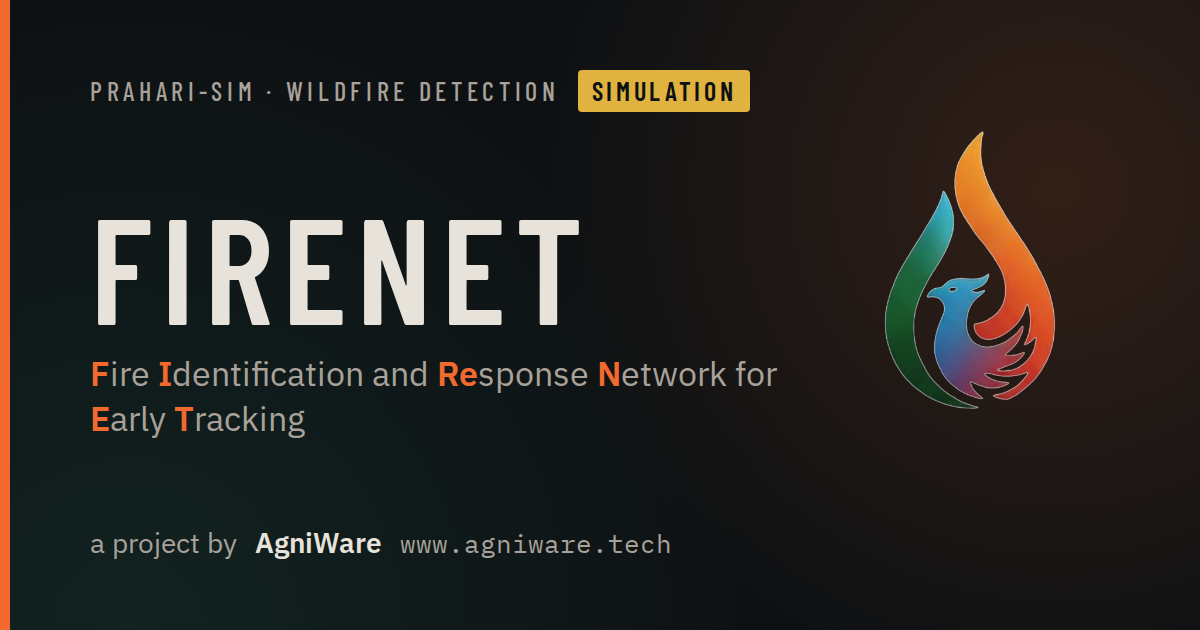
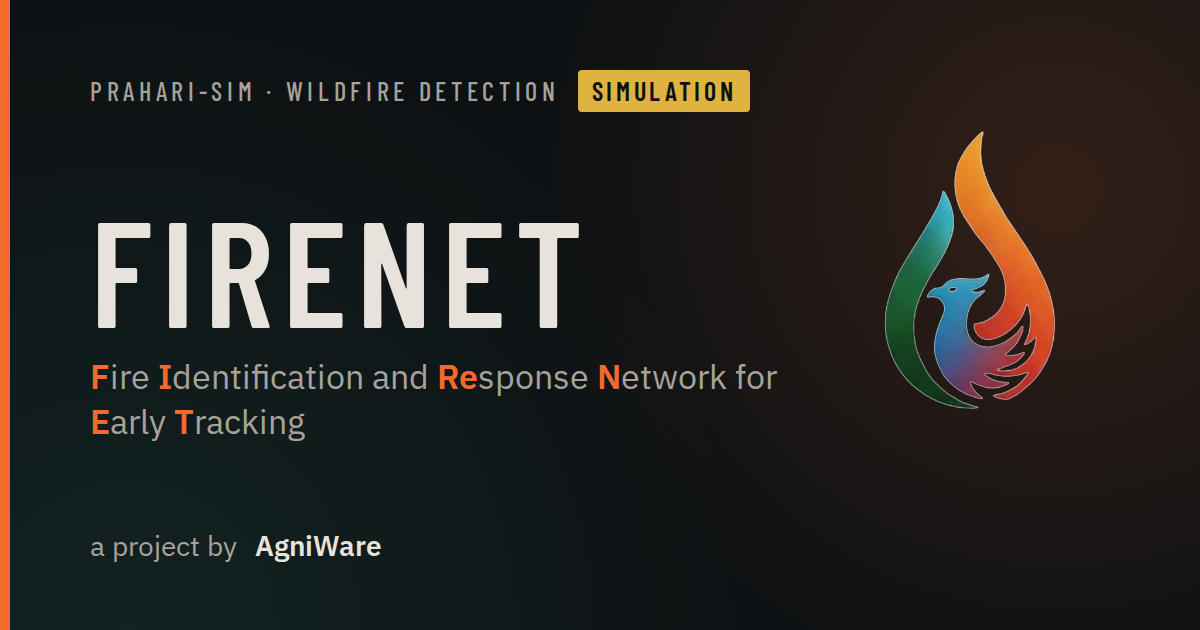
Site: leave out the team website; guided tour buttons; mobile round 2
- AgniWare stays as name and logo; the link and every mention of its
  website are removed (bar, brand.ts, preview image). A test guards it.
- Guided tour: a button in the bar starts the storyboard; Previous, Next
  and close buttons in the caption strip (site/PresenterTouch.tsx), for
  visitors without keys 1-9. PresenterOverlay exports goTo and renders
  the buttons; steps and keys are unchanged.
- mobile.css: tour caption pinned to the top on tablets and phones; race
  timeline scrolls sideways with readable labels; on phones, one card
  per module in Health & model card, one-row layer switches and a
  one-line timeline legend.

Checks: tsc clean, Vitest 64 passed, build clean; headless Chromium at
desktop, tablet and phone: tour steps, sticky caption, cards, no link,
no overflow, 0 console errors, 0 external requests.

Claude-Session: https://claude.ai/code/session_01BdcybAFgb8mJ5jHkwCC4zS

diff --git a/dashboard/src/site/mobile.css b/dashboard/src/site/mobile.css
@@ -22,11 +22,16 @@
   :root .picker select { flex: 1 1 160px; min-width: 0; max-width: 100%; }
   :root .mark-legend { flex-wrap: wrap; }
   :root .foot { overflow-wrap: anywhere; }
+  /* The guided tour's caption and buttons stay at the top of the screen while the page scrolls under them */
+  :root .top { display: contents; }
+  :root .presenter { position: sticky; top: 0; z-index: 11; box-shadow: 0 6px 12px rgba(0, 0, 0, 0.35); }
+  /* Race timeline: keep its labels readable; it scrolls sideways on its own instead of shrinking */
+  :root .race { overflow-x: auto; }
+  :root .race svg { min-width: 760px; }
 }
 
 @media (max-width: 640px) {
   :root .site-bar { padding: 5px 10px; font-size: 12px; }
-  :root .site-bar-url { display: none; }
   :root .strip { gap: 8px; padding: 8px 10px; }
   :root .strip-stats { gap: 6px 16px; }
   :root .strip-stats dd { font-size: 13px; }
@@ -43,4 +48,25 @@
   :root .presenter-line { font-size: 15px; flex-direction: column; gap: 2px; }
   :root .presenter-keys { display: none; }                /* keyboard shortcuts mean nothing on a touch screen */
   :root .foot { padding: 6px 10px; font-size: 11px; }
+  :root .mark-legend { flex-wrap: nowrap; overflow-x: auto; white-space: nowrap; }   /* one line in the pinned controls */
+  :root .presenter-touch { flex: 1 1 100%; }
+  :root .presenter-touch button { flex: 1; padding: 8px 6px; }
+  :root .presenter-touch button:last-child { flex: none; padding: 8px 14px; }
+  /* Map layer switches: one row that scrolls sideways, instead of four rows above the map */
+  :root .layer-toggle { flex-wrap: nowrap; overflow-x: auto; padding-bottom: 4px; scrollbar-width: thin; }
+  :root .layer { flex: none; white-space: nowrap; }
+  /* Health & model card: one card per module instead of a six-column table. The column names come from
+     position (Module, Config, Now, Model, Tag, Errors), so ModuleHealth.tsx itself is unchanged. */
+  :root .health thead { display: none; }
+  :root .health table, :root .health tbody { display: block; }
+  :root .health tr { display: grid; grid-template-columns: 1fr auto auto; gap: 4px 12px; align-items: center;
+    padding: 10px 0; border-bottom: 1px solid var(--line); }
+  :root .health td { display: block; padding: 0; border: 0; }
+  :root .health td:nth-child(1) { font-weight: 600; }
+  :root .health td:nth-child(4) { grid-column: 1 / -1; }
+  :root .health td:nth-child(2)::before, :root .health td:nth-child(5)::before, :root .health td:nth-child(6)::before {
+    color: var(--text-2); font: 11px var(--font-ui); text-transform: uppercase; letter-spacing: 0.06em; margin-right: 6px; }
+  :root .health td:nth-child(2)::before { content: "config"; }
+  :root .health td:nth-child(5)::before { content: "tag"; }
+  :root .health td:nth-child(6)::before { content: "errors"; }
 }

diff --git a/dashboard/src/site/site.css b/dashboard/src/site/site.css
@@ -7,12 +7,18 @@
 .site-bar-name { display: flex; align-items: baseline; gap: 10px; flex-wrap: wrap; color: var(--text-2); }
 .site-bar-firenet { font: 600 15px/1 var(--font-head); letter-spacing: 0.12em; color: var(--ember); }
 .site-bar-expansion b { color: var(--text); font-weight: 600; }
-.site-bar-team { display: inline-flex; align-items: center; gap: 7px; color: var(--text); text-decoration: none;
-  border-radius: 3px; padding: 2px 4px; }
-.site-bar-team:hover b, .site-bar-team:focus-visible b { text-decoration: underline; }
-.site-bar-team:focus-visible { outline: 1px solid var(--text-2); }
+.site-bar-team { display: inline-flex; align-items: center; gap: 7px; color: var(--text); padding: 2px 4px; }
 .site-bar-team img { display: block; }
-.site-bar-url { color: var(--text-2); font-family: var(--font-mono); font-size: 12px; }
 
 .site-brand { display: inline-flex; flex-direction: column; gap: 3px; }
 .site-brand-sub { font: 500 12px/1 var(--font-head); letter-spacing: 0.14em; color: var(--text-2); }
+
+/* Guided tour: the start button in the bar, and previous / next / close in the presenter caption strip */
+.site-tour { background: var(--panel); border: 1px solid var(--ember); border-radius: 3px; padding: 3px 10px;
+  cursor: pointer; font-size: 13px; margin-left: auto; }
+.site-tour:hover, .site-tour:focus-visible { background: var(--line); }
+.presenter-touch { display: flex; gap: 6px; flex: none; }
+.presenter-touch button { background: var(--bg); border: 1px solid var(--line); border-radius: 3px; padding: 4px 10px;
+  cursor: pointer; }
+.presenter-touch .presenter-next { border-color: var(--ember); }
+.presenter-touch button:disabled { opacity: 0.4; cursor: default; }

diff --git a/dashboard/src/site/PresenterTouch.tsx b/dashboard/src/site/PresenterTouch.tsx
@@ -1,0 +1,30 @@
+import type { Step, Storyboard } from "../presenter";
+
+/** The storyboard steps in the order keys 1–9 play them. */
+export function orderedSteps(board: Storyboard): Step[] {
+  return board.steps.slice().sort((a, b) => a.key - b.key);
+}
+
+/** The step before (-1) or after (+1) the current one, or null at either end. */
+export function neighbourStep(board: Storyboard, current: Step, dir: -1 | 1): Step | null {
+  const steps = orderedSteps(board);
+  const i = steps.findIndex((s) => s.key === current.key);
+  return i < 0 ? null : steps[i + dir] ?? null;
+}
+
+interface Props { board: Storyboard | null; step: Step; go: (s: Step) => void; hide: () => void }
+
+/** Buttons for the presenter caption strip (public site): previous, next and close, for visitors on a phone or tablet
+ *  who have no keys 1–9. Rendered by PresenterOverlay; the steps themselves are unchanged. */
+export function PresenterTouch({ board, step, go, hide }: Props) {
+  if (!board) return null;
+  const prev = neighbourStep(board, step, -1);
+  const next = neighbourStep(board, step, 1);
+  return (
+    <nav className="presenter-touch" aria-label="Guided tour steps" data-testid="presenter-touch">
+      <button onClick={() => prev && go(prev)} disabled={!prev}>◀ Previous</button>
+      <button onClick={() => next && go(next)} disabled={!next} className="presenter-next">Next ▶</button>
+      <button onClick={hide} aria-label="End the guided tour">✕</button>
+    </nav>
+  );
+}

diff --git a/dashboard/src/components/PresenterOverlay.tsx b/dashboard/src/components/PresenterOverlay.tsx
@@ -3,6 +3,7 @@ import { create } from "zustand";
 import { variantName } from "../edge";
 import { useMapView } from "../mapView";
 import { keyAction, type Step, type Storyboard, stepMinute, storyboardProblems } from "../presenter";
+import { PresenterTouch } from "../site/PresenterTouch";
 import { RecordingSource } from "../sources/RecordingSource";
 import { beginLoad, isLatestLoad, useSim } from "../store";
 
@@ -28,7 +29,7 @@ function load(name: string): Promise<RecordingSource> {
 }
 
 /** SPEC §6.4 — apply a storyboard step: recording, bookmark, speed, layers, tab, then play or hold. */
-async function goTo(step: Step) {
+export async function goTo(step: Step) {   // exported for the site's touch buttons
   const sim = useSim.getState();
   const token = beginLoad();                     // keys pressed in quick succession: only the last step is applied
   usePresenter.setState({ step, note: null });
@@ -135,6 +136,7 @@ export function PresenterOverlay() {
       ) : null}
       {note ? <p className="presenter-note small" data-testid="presenter-note">{note}</p> : null}
       <p className="presenter-keys small muted">1–9 steps · Space play · S SCMR · R RAQ · F full screen · Esc hide · SIMULATION</p>
+      {step ? <PresenterTouch board={board} step={step} go={(s) => void goTo(s)} hide={() => usePresenter.setState({ step: null, note: null })} /> /* site */ : null}
     </div>
   );
 }

diff --git a/dashboard/src/site/SiteBar.tsx b/dashboard/src/site/SiteBar.tsx
@@ -1,4 +1,6 @@
+import { goTo, usePresenter } from "../components/PresenterOverlay";
 import { FIRENET_WORDS, TEAM, TEAM_LOGO } from "./brand";
+import { orderedSteps } from "./PresenterTouch";
 import "./site.css";
 import "./mobile.css";
 
@@ -17,14 +19,25 @@ export function SiteBar() {
           ))}
         </span>
       </p>
-      <a className="site-bar-team" href={TEAM.url} target="_blank" rel="noopener noreferrer"
-         title={`${TEAM.name}: ${TEAM.label} (opens in a new tab)`}>
+      <TourButton />
+      <p className="site-bar-team">
         <span className="muted">a project by</span>
         <img src={TEAM_LOGO} alt="" width={22} height={22} />
         <b>{TEAM.name}</b>
-        <span className="site-bar-url">{TEAM.label} ↗</span>
-      </a>
+      </p>
     </div>
+  );
+}
+
+/** Starts the storyboard (presenter mode) at step 1, so visitors without keys 1–9 can follow it; hidden during it. */
+function TourButton() {
+  const board = usePresenter((s) => s.board);
+  const step = usePresenter((s) => s.step);
+  if (!board || step) return null;
+  return (
+    <button className="site-tour" data-testid="site-tour" onClick={() => void goTo(orderedSteps(board)[0])}>
+      ▶ Guided tour <span className="muted">· {board.steps.length} steps</span>
+    </button>
   );
 }
 

diff --git a/dashboard/src/site/presenterTouch.test.ts b/dashboard/src/site/presenterTouch.test.ts
@@ -1,0 +1,22 @@
+import { readFileSync } from "node:fs";
+import { dirname, join } from "node:path";
+import { fileURLToPath } from "node:url";
+import { describe, expect, it } from "vitest";
+import type { Storyboard } from "../presenter";
+import { neighbourStep, orderedSteps } from "./PresenterTouch";
+
+const here = dirname(fileURLToPath(import.meta.url));
+const board = JSON.parse(readFileSync(join(here, "..", "..", "public", "storyboard.json"), "utf8")) as Storyboard;
+
+describe("guided-tour buttons (public site)", () => {
+  it("walks the storyboard in key order, stopping at both ends", () => {
+    const steps = orderedSteps(board);
+    expect(steps.map((s) => s.key)).toEqual([...steps.map((s) => s.key)].sort((a, b) => a - b));
+    expect(neighbourStep(board, steps[0], -1)).toBeNull();
+    expect(neighbourStep(board, steps[steps.length - 1], 1)).toBeNull();
+    for (let i = 0; i + 1 < steps.length; i++) {
+      expect(neighbourStep(board, steps[i], 1)?.key).toBe(steps[i + 1].key);
+      expect(neighbourStep(board, steps[i + 1], -1)?.key).toBe(steps[i].key);
+    }
+  });
+});

diff --git a/dashboard/src/site/brand.ts b/dashboard/src/site/brand.ts
@@ -1,4 +1,4 @@
-// Names and links shown by the public site (site branches only; see docs/site/README.md). Kept in one place so the
+// Names shown by the public site (site branches only; see docs/site/README.md). Kept in one place so the
 // page, the tests and the link-preview tags in index.html say the same thing.
 
 /** The system's name and what it stands for: FI-RE-N-E-T. `key` marks the letters that make up the acronym. */
@@ -15,7 +15,8 @@ export const FIRENET_WORDS: { word: string; key: string }[] = [
 
 export const FIRENET_EXPANSION = FIRENET_WORDS.map((w) => w.word).join(" ");
 
-export const TEAM = { name: "AgniWare", url: "https://www.agniware.tech", label: "www.agniware.tech" };
+/** The team's name only. Its website is left out until the developer adds it back (docs/site/LOG.md, S4). */
+export const TEAM = { name: "AgniWare" };
 
 /** The team logo, bundled with the site (no request to another host). */
 export const TEAM_LOGO = `${import.meta.env.BASE_URL}brand/agniware-96.png`;

diff --git a/dashboard/src/site/brand.test.ts b/dashboard/src/site/brand.test.ts
@@ -14,8 +14,12 @@ describe("public-site branding", () => {
     expect(FIRENET_EXPANSION).toBe("Fire Identification and Response Network for Early Tracking");
   });
 
-  it("links the team site over https", () => {
-    expect(TEAM.url).toMatch(/^https:\/\//);
+  it("names the team without linking to or mentioning its website (left out for now, S4)", () => {
+    expect(TEAM).toEqual({ name: "AgniWare" });
+    for (const f of ["SiteBar.tsx", "brand.ts", "site.css"]) {
+      expect(readFileSync(join(here, f), "utf8")).not.toMatch(/agniware\.tech|href=/i);
+    }
+    expect(html).not.toMatch(/agniware\.tech/i);
   });
 
   it("gives the page a title, a description and a link preview that say SIMULATION or simulation", () => {

diff --git a/docs/site/LOG.md b/docs/site/LOG.md
@@ -16,6 +16,7 @@ Kept here so a merge from `main` can be resolved quickly (take `main`'s file, re
 | `dashboard/src/App.tsx` | Imports `SiteBar`; renders it first inside `.top` | S3 |
 | `dashboard/src/components/HeaderStrip.tsx` | Imports `SiteBrand`; it replaces the `PRAHARI-SIM` name span | S3 |
 | `dashboard/index.html` | Title, description, link-preview (Open Graph) tags, icons | S3 |
+| `dashboard/src/components/PresenterOverlay.tsx` | `goTo` exported; renders `<PresenterTouch />` inside the caption strip while a step is shown | S4 |
 
 ## 2026-09-24 — S1: branches and first site build
 
@@ -147,5 +148,53 @@ Kept here so a merge from `main` can be resolved quickly (take `main`'s file, re
 1. The Health & model card table is very long on a phone; a compact card per module would read better.
 2. The race timeline's labels are tiny at phone width.
 3. Presenter mode's keys 1–9 have no touch equivalent (for example, next and previous buttons).
+
+**Promoted:** yes, by the developer.
+
+## 2026-09-24 — S4: team website removed for now; second mobile round
+
+**Done:**
+- **AgniWare website left out (developer request).** The team name and logo stay; the link and every mention of
+  `www.agniware.tech` are gone:
+  - the bar's credit is plain text, not a link;
+  - `TEAM` in `brand.ts` holds only the name;
+  - the link-preview image was redrawn without the address.
+
+  A test now fails if `agniware.tech` or a link comes back into the bar, the brand file, its styles or `index.html`.
+  **To restore it later:** add the address to `TEAM`, turn the credit in `SiteBar.tsx` back into a link, redraw the
+  preview card, and change that test.
+- **Guided tour for visitors without a keyboard.**
+  - A "▶ Guided tour · 9 steps" button in the bar starts the storyboard at step 1.
+  - While a step is shown, the caption strip has Previous, Next and ✕ (end) buttons (`dashboard/src/site/PresenterTouch.tsx`).
+    The steps and keys 1–9 are unchanged.
+  - Wiring needed two small edits to `PresenterOverlay.tsx`, listed in the table above.
+- **Mobile round 2** (`mobile.css`, style overrides only):
+  - Tablets and phones:
+    - the tour caption and its buttons stay pinned to the top of the screen while the page scrolls (the `.top` wrapper
+      uses `display: contents` so the caption can stick to the page);
+    - the race timeline keeps readable labels and scrolls sideways on its own instead of shrinking.
+  - Phones:
+    - the Health & model card becomes one card per module. The column names come from the column position, so
+      `ModuleHealth.tsx` is unchanged;
+    - the map's layer switches sit in one row that scrolls sideways (the map now starts about 150 px higher);
+    - the timeline legend in the pinned controls is a single line.
+
+**Checks:**
+- `tsc` clean; Vitest 64 passed:
+  - `brand.test.ts`: the website test replaces the https test;
+  - new `presenterTouch.test.ts`: Previous and Next walk the storyboard in key order and stop at both ends.
+- Build clean.
+- Headless Chromium at 1280 × 720, 820 × 1180 and 390 × 844:
+  - no link and no `agniware.tech` in the page;
+  - Guided tour → Next → Next reaches step 3/9, and ✕ ends the tour;
+  - after scrolling, the caption is at the top of the screen on tablet and phone;
+  - the health rows are cards on the phone only;
+  - no sideways scroll, 0 console errors, 0 requests to other hosts.
+- Presenter at 1600 × 1000 and phone presenter still pass the S3 checks.
+
+**Known limits:**
+- On desktop the tour buttons take their own row under the caption, about 45 px, and only while a tour runs. The left
+  column scrolls, so the map stays usable.
+- Keys 1–9 remain the fast path for a live talk.
 
 **Promoted:** not yet.

diff --git a/docs/site/README.md b/docs/site/README.md
@@ -41,9 +41,10 @@ merged into `main`.
 | --- | --- | --- |
 | Live-engine panel hidden | `dashboard/src/site/siteConfig.ts`; one guard in `App.tsx`, one tooltip in `MechanismSwitches.tsx` | It needs a FastAPI server on the viewer's own machine, so on the web it could only say "not connected". `VITE_LIVE_ENGINE=1` brings it back for local work. |
 | Unlisted, caching | `dashboard/public/_headers` | Asks search engines not to index the site; long caching for hashed assets, one hour for recordings. Only Cloudflare reads this file. |
-| FIRENET and AgniWare branding | `dashboard/src/site/` (`brand.ts`, `SiteBar.tsx`, `site.css`); `dashboard/public/brand/`; one line in `App.tsx`, one in `HeaderStrip.tsx` | Names the system and the team, and links to www.agniware.tech. The logo is bundled with the site. |
+| FIRENET and AgniWare branding | `dashboard/src/site/` (`brand.ts`, `SiteBar.tsx`, `site.css`); `dashboard/public/brand/`; one line in `App.tsx`, one in `HeaderStrip.tsx` | Names the system and the team. The team's website is left out for now (LOG S4). The logo is bundled with the site. |
 | Page title and link previews | `dashboard/index.html`, `dashboard/public/brand/og-image.png` | A shared link shows the FIRENET card rather than a bare address. |
-| Mobile layout | `dashboard/src/site/mobile.css` | Below 1000 px the page scrolls and stacks, and Play stays pinned at the bottom. Nothing changes on larger screens. |
+| Guided tour buttons | `dashboard/src/site/PresenterTouch.tsx`, the tour button in `SiteBar.tsx`; two small edits in `PresenterOverlay.tsx` | Visitors on a phone or tablet have no keys 1–9. They start the storyboard with a button and step through it with Previous and Next. |
+| Mobile layout | `dashboard/src/site/mobile.css` | Below 1000 px the page scrolls and stacks, Play stays pinned at the bottom and the tour caption at the top. On phones: health cards, one-row layer switches, a sideways-scrolling race timeline. Nothing changes on larger screens. |
 | Node version | `.node-version` | Makes Cloudflare's build use Node 22, the version the dashboard is tested with. |
 | Working rules | `CLAUDE.md` | Site rules instead of the simulator rules; see the file. |
 | Documentation | `docs/site/` | This page and the log. |
